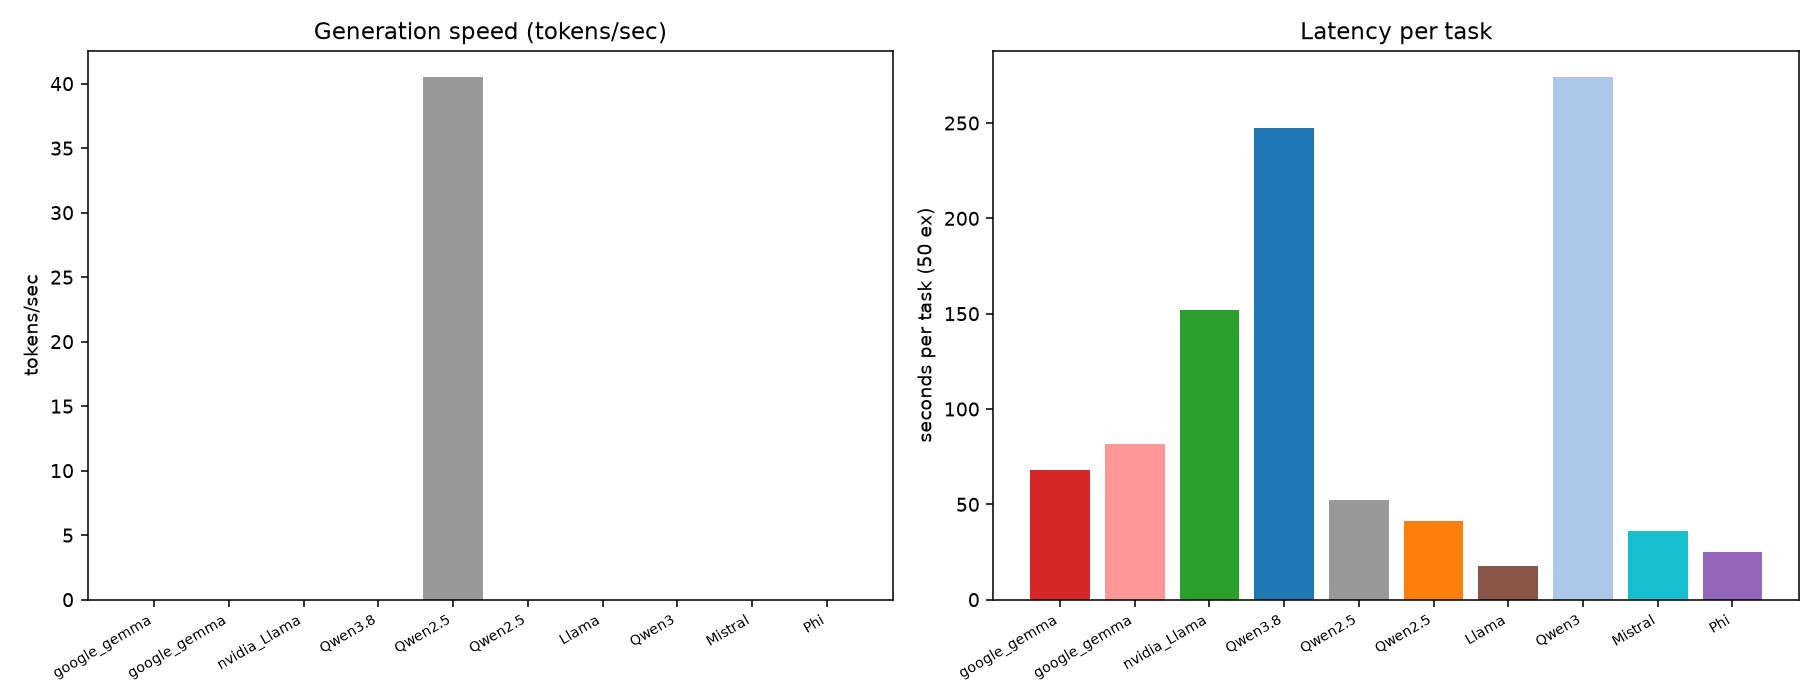
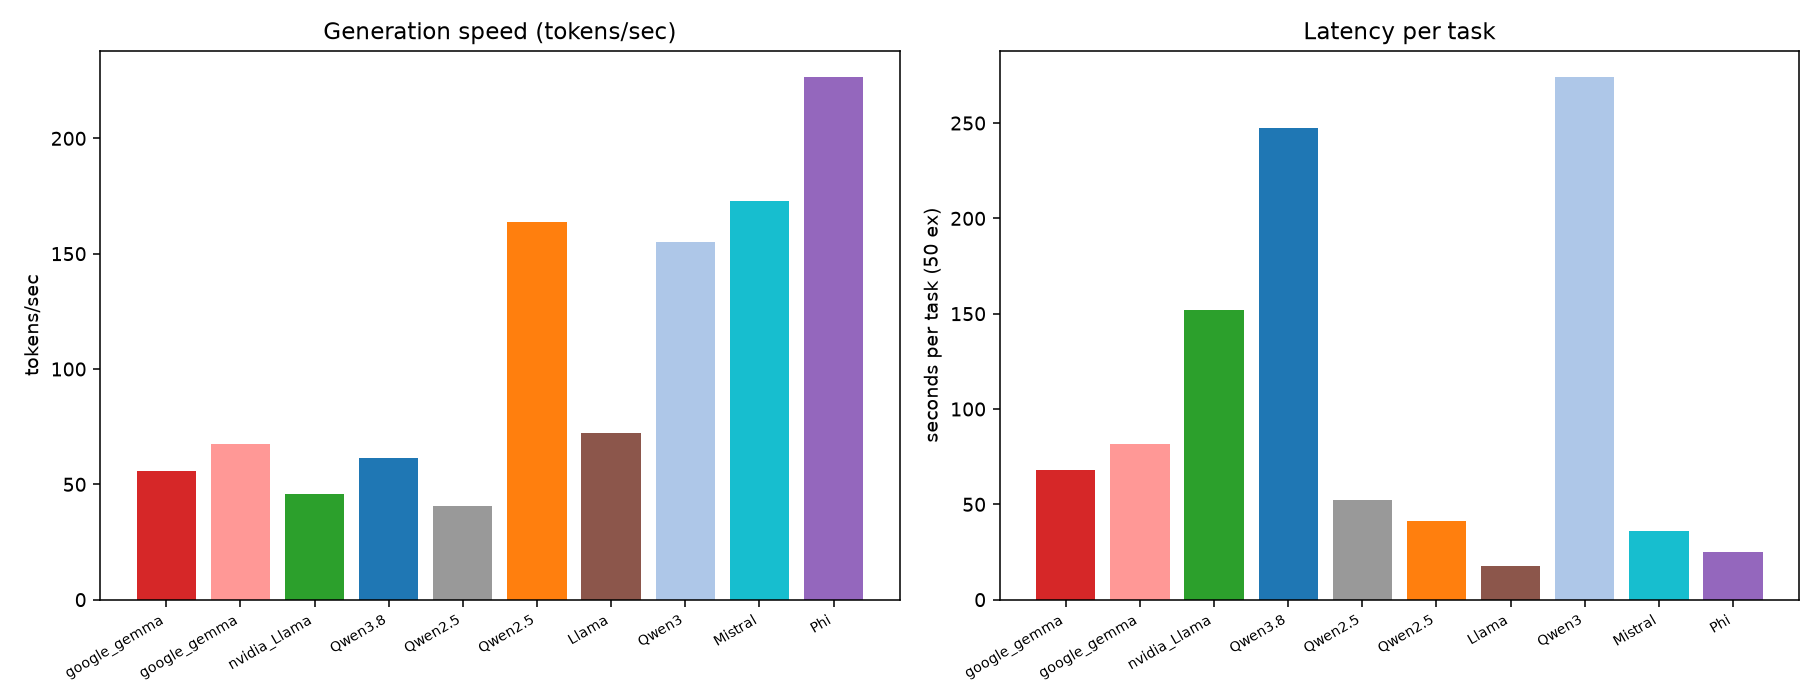
Qwen3 eval fix (thinking-mode), speed bench (9 models), 2-shot, embedder comparison in README

diff --git a/scripts/gen_eval_report.py b/scripts/gen_eval_report.py
@@ -92,6 +92,32 @@ def meta_of(model_stem):
     return MODEL_META.get(model_stem, (None, None, "Unknown", "#999999"))
 
 
+def bench_key(model_stem):
+    k = model_stem.replace(" (2-shot)", "").lower()
+    for short, full in [("gemma-4", "gemma-4-31b"), ("gemma-3", "gemma-3-27b"),
+                        ("nemotron", "nemotron-49b"), ("qwen3.8", "qwen3.8-27b"),
+                        ("qwen2.5", "qwen2.5-7b"), ("llama-3.2", "llama3.2-3b"),
+                        ("qwen3-30b", "qwen3-30b"), ("mistral", "mistral-7b"),
+                        ("phi-3", "phi3-mini")]:
+        if short in k:
+            return full
+    return None
+
+
+def load_speed_bench():
+    bench = {}
+    p = Path("logs/speed_bench.json")
+    if p.exists():
+        try:
+            raw = json.loads(p.read_text())
+            for name, v in raw.items():
+                if isinstance(v, dict) and v.get("tok_sec"):
+                    bench[name] = v["tok_sec"]
+        except Exception:
+            pass
+    return bench
+
+
 def group_accuracy(accs):
     out = {}
     for cat, tasks in ABILITY_GROUPS.items():
@@ -287,13 +313,17 @@ def make_plots(data, out_dir):
     plt.close(fig)
 
     # ---- 6. speed: tokens/sec + seconds/task ----
+    bench = load_speed_bench()
     fig, (ax1, ax2) = plt.subplots(1, 2, figsize=(13, 5))
     toks = []
     secs_per = []
     for m in models:
         tv = [v for v in data[m]["tok_sec"].values() if v]
         sv = [v for v in data[m]["secs"].values() if v]
-        toks.append(float(np.mean(tv)) if tv else 0)
+        ts = float(np.mean(tv)) if tv else 0
+        if not ts:
+            ts = bench.get(bench_key(m)) or 0
+        toks.append(ts)
         secs_per.append(float(np.mean(sv)) if sv else 0)
     x = np.arange(n_models)
     ax1.bar(x, toks, color=[meta_of(m)[3] for m in models])

diff --git a/README.md b/README.md
@@ -179,6 +179,22 @@ Nine complete GGUF models were benchmarked on **Persian** tasks via the [Persian
 | Mistral-7B | 0.220 | 0.240 | 0.080 |
 | Phi-3-mini | 0.147 | 0.190 | 0.090 |
 
+### Generation speed (tokens/sec, 256-token Persian generation)
+
+| Model | tok/s | Notes |
+|---|---|---|
+| Phi-3-mini q4 | 226.6 | tiny model, fastest |
+| Mistral-7B | 172.7 | |
+| Qwen2.5-7B | 163.9 | |
+| Qwen3-30B-A3B | 155.1 | MoE — only 3B active params |
+| Llama-3.2-3B | 72.2 | |
+| Gemma-3-27B | 67.3 | |
+| Qwen3.8-27B | 61.2 | thinking preamble slows it |
+| Gemma-4-31B | 55.7 | |
+| Nemotron-49B | 45.6 | largest model, slowest |
+
+Speed and accuracy are independent axes: Nemotron-49B is slowest *and* mid-ranked; Phi-3-mini is fastest *and* worst. Qwen3-30B-A3B is the efficiency outlier (fast MoE, weaker structured tasks).
+
 ### Plots
 
 - [`docs/reports/persian_mean.png`](docs/reports/persian_mean.png) — ranked mean accuracy
@@ -220,6 +236,25 @@ offline-prep/venv/bin/python3.12 scripts/gen_eval_report.py   # rebuild tables +
 ```
 
 English + Persian conventional tasks (MMLU-3subj, GSM8K, fa_arc, fa_rc) are in [`logs/eval_*.json`](logs/) via [`scripts/eval_gguf.py`](scripts/eval_gguf.py). Persian eval datasets (ParsBench suite) are cached offline in `offline-prep/datasets` and were downloaded by [`scripts/download_persian_eval.py`](scripts/download_persian_eval.py).
+
+### Few-shot (n-shot) evaluation
+
+The harness supports `--n-shots N` to prepend N exemplars per task (`make_fewshot` in `scripts/eval_persian.py`). So far 2-shot has been run on Qwen2.5-7B:
+
+| Model | Setting | Mean | ARC | MC | Math | Sentiment | NER | RC |
+|---|---|---|---|---|---|---|---|---|
+| Qwen2.5-7B | 0-shot | 0.443 | 0.680 | 0.360 | 0.380 | 0.660 | 0.880 | 0.140 |
+| Qwen2.5-7B | 2-shot | **0.466** | 0.740 | 0.320 | 0.120 | 0.780 | 0.960 | 0.340 |
+
+2-shot lifts NER (0.88 → 0.96), ARC (0.68 → 0.74), sentiment (0.66 → 0.78) and reading comprehension (0.14 → 0.34), but *hurts* math (0.38 → 0.12) — a known few-shot trade-off on arithmetic-style tasks where exemplars anchor wrong patterns. The 2-shot run is stored as `evalp_qwen2.5-7b_2shot.json` and appears in the report tables as a separate `(2-shot)` row. Full per-model exemplar inputs/outputs are in the same-question comparison section of `docs/reports/persian_eval_report.md`.
+
+### Same question, different models — why scores differ
+
+`docs/reports/persian_eval_report.md` includes a *same-question, all models* section (first example of each task) showing the identical prompt sent to every model. Concrete takeaways:
+
+- **Format following decides MC/ARC**: on the photosynthesis ARC prompt, Gemma-4/3, Nemotron, Qwen3.8 and Qwen2.5 all answer `A`; Qwen3-30B wraps its answer in a `<think>` block, and Mistral/Phi-3 pick wrong options (`D`/`C`) — the score gap is instruction-following, not Persian ability.
+- **NER needs strict JSON**: models that emit raw names or chatty prose score 0 on NER even when the entities are present; Gemma-4 (1.0) and Gemma-3 (0.98) emit the expected structure.
+- Good/bad answer samples per model per task are listed inline in the report (each task's example section shows the model output with a hit/miss marker).
 
 ## 4c. Embedding model comparison (Persian retrieval)
 

diff --git a/docs/reports/persian_eval_report.md b/docs/reports/persian_eval_report.md
@@ -1,6 +1,6 @@
 # Persian LLM Evaluation Report
 
-Generated: 2026-08-17 11:07 UTC
+Generated: 2026-08-17 11:55 UTC
 
 ## Models (sorted by mean accuracy)
 
